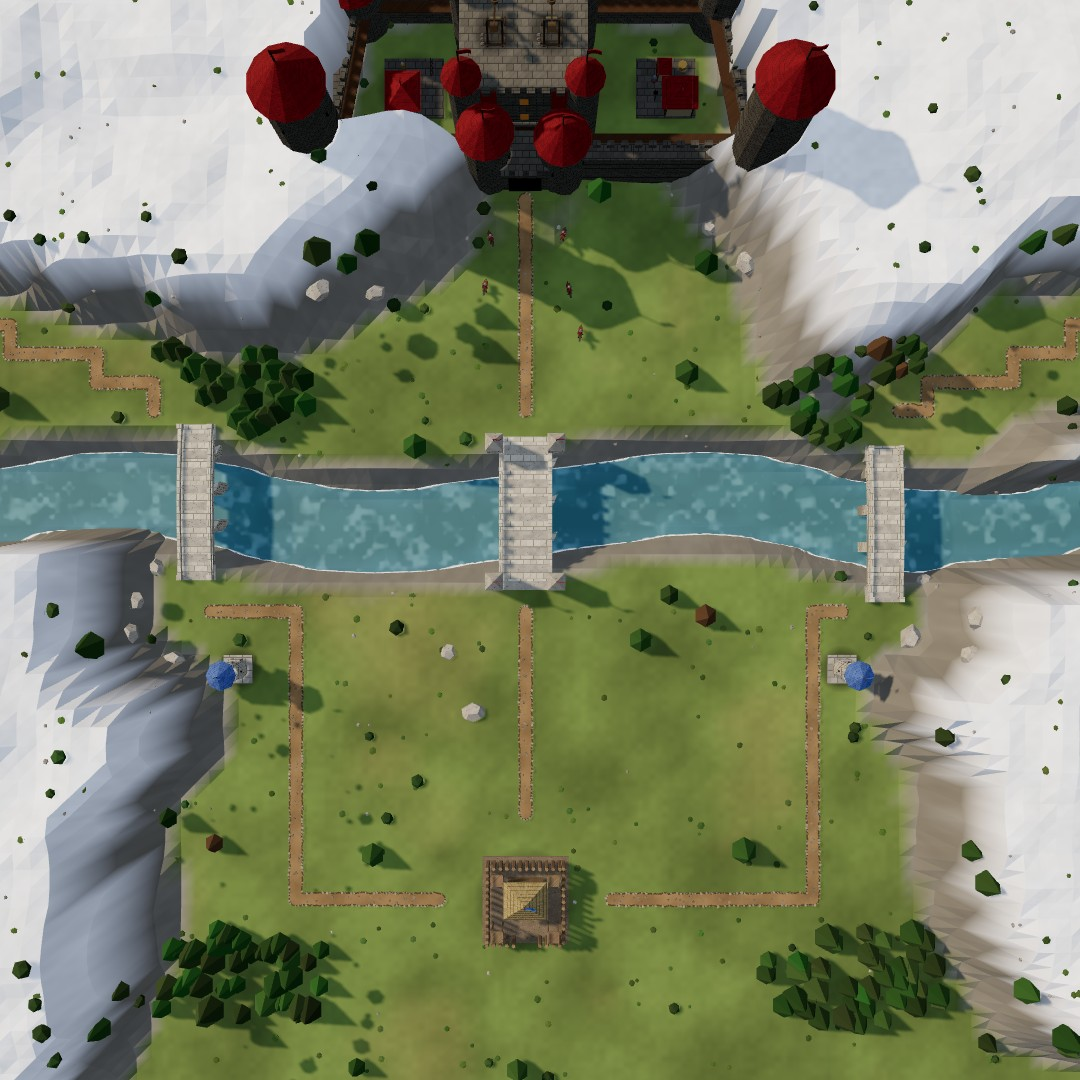
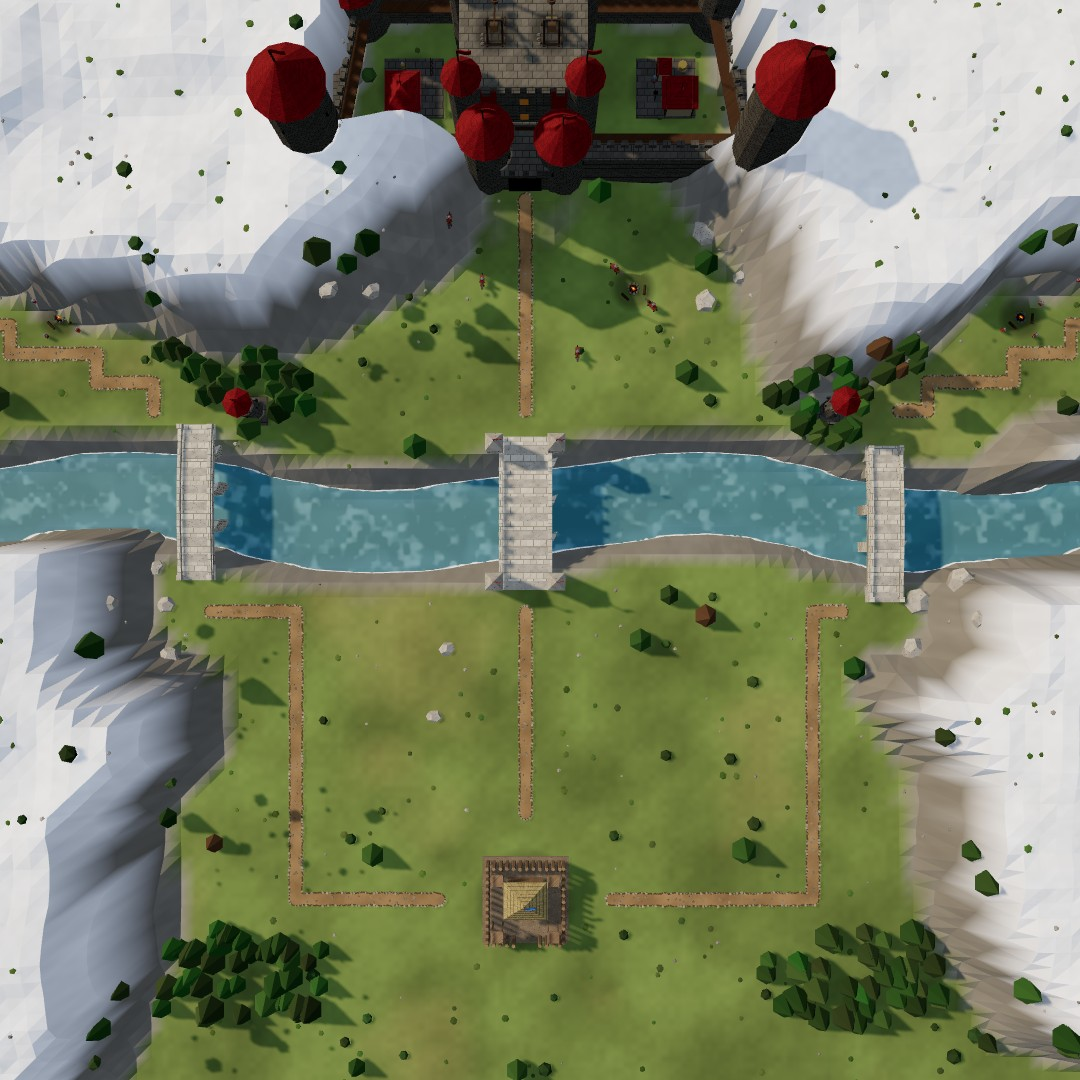
Warlord's Hold: raider camps with campfires and patrols on the far bank and at the gate; the two stone towers are the raiders', across the river
Claude-Session: https://claude.ai/code/session_01AE8sRRsVdpH9ETfQvtppox

diff --git a/index.html b/index.html
@@ -1134,8 +1134,18 @@ function holdHeight(x, z) {
 }
 // the boss stages' fixed scenery nobody walks through or builds on: the keep and the burned village's ruins, the hold
 // the Warlord's horse guard idling outside the gate (Jack: livelier): tier-3 horse swords, scenery
-const HOLD_RIDERS = [[36.6, 19.2, .3], [41.6, 19, -.3], [36.2, 22.4, -.15], [42, 22.6, .2], [42.8, 25.6, -.1]];
-const sceneryAt = (x, z) => MAP === 'hold' && HOLD_RIDERS.some(([a, b]) => Math.hypot(x - a, z - b) < .8) ? true : MAP === 'keep' ? inPoly(KEEP_POLY, x, z) || KEEP_RUINS.some(([a, b]) => Math.hypot(x - a, z - b) < 1.3) : MAP === 'hold' ? inPoly(HOLD_POLY, x, z) : false;
+// the raiders' camps on the far bank (Jack): round a campfire each, some resting by the fire, some on patrol round a loop of points
+// (they walk, stop a moment at each corner, walk on); the horse guard outside the gate the same; and a tier-3 archer tower of the
+// raiders' by each side bridge. Scenery: the fires and towers are kept clear in sceneryAt; the walkers just walk
+const HOLD_CAMPS = [
+  { fire: [6.5, 24.5], rest: [['spear', 3, 5.2, 23.6], ['archer', 2, 7.8, 25.4], ['sword', 3, 5.6, 25.8]],
+    patrol: [['spear', 3, [[3, 22.2], [11, 23.4], [13, 28.5], [8.5, 26.6]]], ['sword', 2, [[18, 30.5], [24, 30.5], [24, 26], [18.5, 26.5]]]] },
+  { fire: [73.5, 24.5], rest: [['spear', 3, 74.8, 23.6], ['archer', 2, 72.2, 25.4], ['sword', 3, 74.4, 25.8]],
+    patrol: [['spear', 3, [[77, 22.2], [69, 23.4], [67, 28.5], [71.5, 26.6]]], ['sword', 2, [[62, 30.5], [56, 30.5], [56, 26], [61.5, 26.5]]]] },
+  { fire: [46.5, 22.5], rest: [['rider', 3, 45.2, 21.2], ['rider', 3, 47.8, 23.8]],
+    patrol: [['rider', 3, [[34, 18.8], [42.6, 18.8], [42.6, 27], [34, 27]]], ['rider', 3, [[42.6, 27], [34, 27], [34, 18.8], [42.6, 18.8]]], ['rider', 3, [[36, 22], [36, 30], [42, 30], [42, 22]]]] }];
+const HOLD_TOWERS = [[20, 31], [60, 31]];
+const sceneryAt = (x, z) => MAP === 'hold' && (HOLD_CAMPS.some(c => Math.hypot(x - c.fire[0], z - c.fire[1]) < .9) || HOLD_TOWERS.some(([a, b]) => Math.hypot(x - a, z - b) < 1.2)) ? true : MAP === 'keep' ? inPoly(KEEP_POLY, x, z) || KEEP_RUINS.some(([a, b]) => Math.hypot(x - a, z - b) < 1.3) : MAP === 'hold' ? inPoly(HOLD_POLY, x, z) : false;
 // the maps with ground nobody may walk or build on (Mountain pass's mountains, Greenvale's hills)
 const mapOpen = (x, z) => MAP === 'pass' ? passOpen(x, z) : MAP === 'vale' ? valeOpen(x, z) : MAP === 'hold' ? holdOpen(x, z) : true;
 function genHeight(x, z) {
@@ -6826,6 +6836,8 @@ function buildWarlordsHold(g) {
   // inside the walls: the town's garrison and royal stables; two trebuchets on the keep's roof, aimed south (Jack)
   placeModel(g, 'barracks', 3, 31.5, 9.5, 1, Math.PI / 2); placeModel(g, 'stables', 3, 48.5, 9.5, 1, -Math.PI / 2);
   for (const sx of [-1, 1]) placeModel(g, 'catapult', 3, cx + sx * 1.7, cz, .9).position.y = y0 + 9.5;
+  for (const [x, z] of HOLD_TOWERS) placeModel(g, 'tower', 3, x, z);
+  for (const c of HOLD_CAMPS) placeModel(g, 'campfire', 1, c.fire[0], c.fire[1]);
 }
 function placeBossScenery() {
   if (bossMesh) { scene.remove(bossMesh); bossMesh = null; }
@@ -6838,18 +6850,36 @@ function placeBossScenery() {
     for (let i = 0; i < 4; i++) { const a = i * Math.PI / 2 + .3, h = .5 + hash(x + i, z) * 1.1, w = box(1.7, h, .22, charM, x + Math.cos(a) * .85, yy + h / 2 - .1, z + Math.sin(a) * .85); w.rotation.y = -a + Math.PI / 2; g.add(w); }
     const bm = box(2, .18, .18, charM, x, yy + .4, z); bm.rotation.set(.3, hash(x, z) * 3, .4); g.add(bm);
   }
-  if (MAP === 'hold') { holdRiders = HOLD_RIDERS.map(([x, z, ry], i) => { const p = makeRaider('rider', 3); p.g.scale.setScalar(UNIT_K); p.g.position.set(x, hAt(x, z), z); p.g.rotation.y = ry; p.g.traverse(o => { if (o.isMesh) o.castShadow = true; }); g.add(p.g); return { p, ry, s: i * 1.9 + .7 }; }); }
+  if (MAP === 'hold') { holdRiders = [];
+    const fig = (kind, tier, x, z) => { const p = makeRaider(kind, tier); p.g.scale.setScalar(UNIT_K); p.g.position.set(x, hAt(x, z), z); p.g.traverse(o => { if (o.isMesh) o.castShadow = true; }); g.add(p.g); return p; };
+    for (const c of HOLD_CAMPS) {
+      for (const [k, t, x, z] of c.rest) { const p = fig(k, t, x, z), ry = Math.atan2(c.fire[0] - x, c.fire[1] - z); p.g.rotation.y = ry; holdRiders.push({ p, ry, s: x * 1.3 + z }); }
+      c.patrol.forEach(([k, t, pts], i) => holdRiders.push({ p: fig(k, t, ...pts[0]), pts, s: i * 3.1 + c.fire[0], walk: k === 'rider' ? 1.3 : .9 }));
+    } }
   else holdRiders = [];
   scene.add(g); bossMesh = g;
 }
 // they shift their weight, turn a little, the horses now and then paw the ground and toss their heads
 let holdRiders = [];
 function animHoldRiders(t) {
-  for (const R of holdRiders) { const { p, s } = R, paw = Math.max(0, Math.sin(t * .5 + s)) ** 8;
-    p.g.rotation.y = R.ry + .14 * Math.sin(t * .23 + s);
-    if (p.horse) { p.horse.rotation.x = -.03 * paw + .012 * Math.sin(t * 1.3 + s); p.horse.position.y = .01 * Math.sin(t * 1.1 + s); }
-    if (p.horseLegs) p.horseLegs.forEach((l, i) => { l.rotation.x = i === 0 ? -.6 * paw * Math.max(0, Math.sin(t * 6 + s)) : 0; });
-    if (p.arms) p.arms[1].rotation.x = -.25 + .08 * Math.sin(t * .7 + s);
+  for (const R of holdRiders) {
+    const { p, s } = R;
+    if (!R.pts) {   // resting by the fire: turn a little, shift, a horse paws now and then
+      const paw = Math.max(0, Math.sin(t * .5 + s)) ** 8; p.g.rotation.y = R.ry + .14 * Math.sin(t * .23 + s);
+      if (p.horseLegs) p.horseLegs.forEach((l, i) => { l.rotation.x = i === 0 ? -.6 * paw * Math.max(0, Math.sin(t * 6 + s)) : 0; });
+      continue;
+    }
+    // on patrol: each leg of the loop walked at R.walk m/s, then a 1.6 s stop at the corner
+    if (!R.seg) { R.seg = R.pts.map((a, i) => { const b = R.pts[(i + 1) % R.pts.length]; return { a, b, d: Math.hypot(b[0] - a[0], b[1] - a[1]) }; }); R.T = R.seg.reduce((n, q) => n + q.d / R.walk + 1.6, 0); }
+    let u = (t + s * 7) % R.T, moving = false, x = R.pts[0][0], z = R.pts[0][1], dx = 0, dz = 1;
+    for (const q of R.seg) { const w = q.d / R.walk; dx = q.b[0] - q.a[0]; dz = q.b[1] - q.a[1];
+      if (u < w) { const f = u / w; x = q.a[0] + dx * f; z = q.a[1] + dz * f; moving = true; break; } u -= w;
+      if (u < 1.6) { x = q.b[0]; z = q.b[1]; break; } u -= 1.6; }
+    p.g.position.set(x, hAt(x, z), z);
+    const want = Math.atan2(dx, dz); if (R.ry === undefined) R.ry = want; let d = want - R.ry; d = Math.atan2(Math.sin(d), Math.cos(d)); R.ry += d * .12; p.g.rotation.y = R.ry;
+    const ph = t * (p.horseLegs ? 7 : 6.5) + s, a = moving ? 1 : 0;
+    if (p.horseLegs) p.horseLegs.forEach((l, i) => { l.rotation.x = a * .45 * Math.sin(ph + (i === 0 || i === 3 ? 0 : Math.PI)); });
+    else { if (p.legs) p.legs.forEach((l, i) => { l.rotation.x = a * .5 * Math.sin(ph + i * Math.PI); }); if (p.arms) p.arms[0].rotation.x = a * -.35 * Math.sin(ph); }
   }
 }
 // paths laid along polylines, cell by cell, diagonal steps joined so they stay connected
@@ -7252,9 +7282,6 @@ function startGame() {
   placeBossScenery();
   if (MAP === 'keep') { yaw = 0; target.z -= 10; layRoads(KEEP_ROADS); rebuildRoads(); }   // from the south, looking up at the keep
   if (MAP === 'hold') { yaw = 0; target.z -= 10; layRoads(HOLD_ROADS); rebuildRoads();
-    // a tier-3 archer tower of the town's by each side bridge, on the near bank (Jack)
-    for (const [x, z] of [[19, 48], [61, 48]]) { const ev = findValid('tower', Math.floor(x / CELL), Math.floor(z / CELL), { free: true }); if (!ev) continue;
-      const B = place('tower', ev.ci, ev.cj, { instant: true, free: true, quiet: true }); if (B) { B.tier = 3; B.max = DEF.tower.hp[2]; B.hp = B.max; swapModel(B); } }
   }                   // from the south: the fords ahead                   // from the south: the north bridge at the top
   if (MAP === 'watch') { yaw = 0; target.x += 7; target.z -= 4; layRoads(WATCH_ROADS); rebuildRoads(); placeRuin(); }   // from the south: Watch hill ahead, the gully on the right   // from the south, the cross and the north road ahead
   BANK_WALL = MAP === 'bridge' ? BANK_WALL : [];

diff --git a/CLAUDE.md b/CLAUDE.md
@@ -81,7 +81,7 @@ The whole game is currently one self-contained file: `index.html` (~165 KB, thre
 - **Map size per stage** (`MAP_N`, `setMapSize(n)` at the top of `startGame`): every stage is 28 × 28 cells (56 m) except the boss stages, 40 × 40 (80 m; Jack asked for them big). `N`, `SIZE` and `V` are `let`; every buffer is allocated once at the largest size (`N_MAX` 40, `V_MAX` 81: heights, cells, regions, bridges, the tree and path-stone instances) and indexed with the current `N`/`V`; on a size change `setMapSize` re-lays the ground's vertex grid and triangles (`terrainGrid`), the Grid overlay (`gridLines`), the water plane, the sun and its shadow box, and `CAM_LIM.hi`. The water's bed texture `hTex` is always `V_MAX` wide (the shader divides by `V_MAX`).
 - **Bosses** (`ENEMY.chief`, `ENEMY.warlord`, `boss`: drawn that much bigger; always sent at tier 3; renders in `design/characters/bosses.png`): the **Raider Chief** on foot (hp 520 × 2.3, dmg 14 × 1.65, a sword and a big red round shield, a horned helm with a gold band, a long red cloak) and the **Warlord** mounted (hp 820 × 2.3, dmg 18 × 1.65, ×2 speed, a gold crown of points and a red plume on the great helm, a red heater shield rimmed in gold, the cloak, a horse in dark barding with red flank cloths and a gilded face plate); gear from `bossGear`. Both ride or march for the castle (`pickTarget`), come last of their night's column (`startNight`), get a bigger health bar, and their arrival shows a banner with their name and "Boss" and a log line. Gallery row "Bosses" (drawn at their own size).
 - **Raider Keep** (`MAP` 'keep', Stage 11, boss, 80 m; from `design/stages/stage11-raider-keep.svg`): the raiders' keep at the top (`KEEP_POLY`, a six-sided yard on a rocky rise, gate at `KEEP_GATE`): the first layout's shape (Jack liked it) in the detail of the town's buildings (`buildRaiderKeep`, from `placeBossScenery`): sharpened palisade logs with rails and a wall-walk inside, the town's lookout tower at every corner, the town's timber gate (×1.5) flanked by two lookouts, a great tower (masonry with buttresses, a jettied timber-framed storey with windows, a shingled pyramid roof, a door, a roof flag), a log hall with a gable roof and a chimney, and the town's weapon racks, campfire and siege stores in the yard; everything darkened (`darkFort`: cloned materials × .26 linear, about half as bright on screen, the town's blue turned red; see-through flames left alone; cached in `darkMats`), so it never reads as the player's, a dry ditch below it open only at the gate (`KEEP_DITCH`), two roads from the gate round the burned village (`KEEP_RUINS`, blackened wall stubs) and dead trees (`bare` trees: trunks only, out of reach) to the town at the bottom (castle `KX/KZ` 41,67); ground red in the north, scorched in the middle, green in the south (`recolor`); green woods in the two south corners, plenty of stone. The keep, its yard and the ruins are scenery nobody walks or builds on (`sceneryAt`, in `canStand`, `cellPass`, `evaluate` "Occupied"). Raiders come round both sides of the fort (Jack: spawns west and east of it, 40% each) and a few out of its gate. Rules (`MAP_RULES.keep`): **7 nights** after a **10-minute first day** (Jack), 20–75 raiders a night with siege from night 3, the **Raider Chief** at the tail of night 7; days 600/120…; spawn gap .8 s; start gold 50 wood 30 stone 0 food 30; every building, tier 3 (win: survive; "break the keep" not built).
-- **Warlord's Hold** (`MAP` 'hold', Stage 12, final boss, 80 m; from `design/stages/stage12-warlords-hold.svg`): snowy mountains round the north and both sides (`HOLD_MTNS`, closed ground like Mountain pass's: `holdOpen` in `mapOpen`; snow from about 10.5 m on this map in `recolor`), the Warlord's hold on a crag at the top (`HOLD_POLY`, gate at `HOLD_GATE`; `buildWarlordsHold`): masonry curtain walls with merlons and a timber wall-walk, round corner towers (arrow slits, merlon crowns, cone roofs, roof flags), a gatehouse of two round towers round a dark arched passage with a portcullis, a tall keep with four cone-roofed corner turrets, two rows of windows, a framed door and hanging banners, and the town's tier-3 garrison and royal stables inside, two trebuchets (`makeCatapult(3)`) on the keep's roof; five tier-3 horse swords idle outside the gate (`HOLD_RIDERS`, scenery in `sceneryAt`, not darkened, `animHoldRiders`: turn a little, paw, shift); a ramp down from the gate so its door meets the ground; gate, keep, grand bridge and road all on x 39, the middle of the road's cell (the road ran a cell right of the door); every wall piece (1.5 m sections), tower, the gatehouse and the keep reach down to the lowest ground under and just outside them (`low`), with level tops (`TOP`), so nothing floats where the crag falls away (Jack saw the east side floating); roofed towers have no merlons (they cut through the cones) and the keep's merlons stop short of its corner turrets; darkened by `darkFort` (blue roofs and flags turn red), a river across the middle (`HOLD_RIVER`, flows west) with a **grand stone bridge** on the gate's road (`grand: true`, `w` 3.2: a wider deck, units walk all of it (`onDeck` reads `b.w`), tall stone towers with red flags at both ends, merlons on the parapets) its flags red and waving east like the hold's (`raiderFlagM`); two plain stone bridges where the side passes cross the river (x 16 and 64; they were land crossings, `HOLD_ICE` is now empty), each with a free tier-3 archer tower of the town's on the near bank; two mountain passes from the side edges (`HOLD_PASSES`, also the roads: down to their bridge, then long straight runs to the castle's sides, no diagonals: diagonal roads lay as zigzags), pines on the lower slopes and in the south corners (out-of-reach pines up the mountains), stone at the mountains' feet; castle `KX/KZ` 39,65. Raiders out of the hold's gate; from night 3 some down the west pass, from night 4 the east too. Rules (`MAP_RULES.hold`): **7 nights** after a **10-minute first day**, the **Warlord** and eight tier-3 horse swords (his mounted guard) on night 7; days 600/120…; spawn gap .75 s; start gold 50 wood 30 stone 0 food 30; every building, tier 3.
+- **Warlord's Hold** (`MAP` 'hold', Stage 12, final boss, 80 m; from `design/stages/stage12-warlords-hold.svg`): snowy mountains round the north and both sides (`HOLD_MTNS`, closed ground like Mountain pass's: `holdOpen` in `mapOpen`; snow from about 10.5 m on this map in `recolor`), the Warlord's hold on a crag at the top (`HOLD_POLY`, gate at `HOLD_GATE`; `buildWarlordsHold`): masonry curtain walls with merlons and a timber wall-walk, round corner towers (arrow slits, merlon crowns, cone roofs, roof flags), a gatehouse of two round towers round a dark arched passage with a portcullis, a tall keep with four cone-roofed corner turrets, two rows of windows, a framed door and hanging banners, and the town's tier-3 garrison and royal stables inside, two trebuchets (`makeCatapult(3)`) on the keep's roof; three raider camps on the far bank (`HOLD_CAMPS`, Jack): a campfire each (the left and right ones in the open ground the side passes come down through, one outside the gate) with raiders resting round it facing the fire, and raiders on patrol round a loop of points (walk at .9 m/s, horses 1.3, stop 1.6 s at each corner, legs striding; the gate's camp is the Warlord's horse guard); figures not darkened, animated by `animHoldRiders` from `frame`; fires and the raiders' two tier-3 archer towers (`HOLD_TOWERS`, by the side bridges' far ends, darkened with the hold) are kept clear in `sceneryAt`; a ramp down from the gate so its door meets the ground; gate, keep, grand bridge and road all on x 39, the middle of the road's cell (the road ran a cell right of the door); every wall piece (1.5 m sections), tower, the gatehouse and the keep reach down to the lowest ground under and just outside them (`low`), with level tops (`TOP`), so nothing floats where the crag falls away (Jack saw the east side floating); roofed towers have no merlons (they cut through the cones) and the keep's merlons stop short of its corner turrets; darkened by `darkFort` (blue roofs and flags turn red), a river across the middle (`HOLD_RIVER`, flows west) with a **grand stone bridge** on the gate's road (`grand: true`, `w` 3.2: a wider deck, units walk all of it (`onDeck` reads `b.w`), tall stone towers with red flags at both ends, merlons on the parapets) its flags red and waving east like the hold's (`raiderFlagM`); two plain stone bridges where the side passes cross the river (x 16 and 64; they were land crossings, `HOLD_ICE` is now empty), each guarded by a raider tower on the far bank; two mountain passes from the side edges (`HOLD_PASSES`, also the roads: down to their bridge, then long straight runs to the castle's sides, no diagonals: diagonal roads lay as zigzags), pines on the lower slopes and in the south corners (out-of-reach pines up the mountains), stone at the mountains' feet; castle `KX/KZ` 39,65. Raiders out of the hold's gate; from night 3 some down the west pass, from night 4 the east too. Rules (`MAP_RULES.hold`): **7 nights** after a **10-minute first day**, the **Warlord** and eight tier-3 horse swords (his mounted guard) on night 7; days 600/120…; spawn gap .75 s; start gold 50 wood 30 stone 0 food 30; every building, tier 3.
 - **Stage town picker** (Jack's design): a stage with more decor unlocked than `DECOR_PICK`, or both buildings of a pair unlocked (`stageBoth`, picks in `localStorage['mtd-stage-pair']`, `STAGE_PAIR`, `stagePair`) (`stagePicks(map)`: Watchhill on) opens the Choose-your-town screen from its preview's Play (`showLoadPick(map)`, `stagePick`): its buildings are set (the unlocked one of each pair picked, the other locked), the decor it has unlocked are picked four of, and everything not unlocked yet shows only a padlock, no name, icon or cost (Jack's call; `LOCK_ICO`, `.ldOpt.locked`, a tap knocks `nope`); Back returns to the stage preview, Start plays. Picks per stage in `localStorage['mtd-stage-decor']` (`STAGE_DECOR`, `stageDecor(map)`: by default the newest four); `applyLoadout` trims the stage's decor to them (in `cats` order), so `?map=watch` uses them too.
 - **Tiers by stage** (`maxTier` in `CAMP_MAPS`, `tierCap()`): Stages 1–3 stay at tier 1 (no Upgrade button, `upgrade` refuses; Stage 1's guide drops its upgrade step), Stage 4 opens tier 2 (Jack moved it from Stage 3; `newTier: 2` adds a "Tier 2" card after its building cards: "Upgrades" only (the house / gold / archer before → after examples were dropped: Jack)); free play has all three.
 - Raiders pick targets by walking distance, never a straight line across water (`pickTarget` → `reachTarget`: `landField` is a breadth-first cell count over land and bridges, buildings counted as open since they break through; unreachable buildings are skipped) and route on the cell grid with `walkTo` (mode 2) toward a fixed point on the side they reach first (`e.tp`, reset on each 3 s retarget); when buildings or walls close every route, `walkTo` falls back to a mode-3 path (`cellPass` mode 3 ignores occupancy) so they walk to whatever blocks the way and break it (they used to walk straight at the target and stand at a riverbank on River isle); straight `steer` only within 3 m and over open ground (`clearLine`); `edgePoint` falls back to mode-3 routes for a walled-in town; a wall in the way (stuck or 3.5 s without progress) is attacked as before. A raider spawned a metre or so from its point never lands on ground it can't stand on (`spawnEnemy` falls back to the point itself). Spawn points (`edgePoint`) must be walkable (`cellPass` mode 2) and have a route to the castle's door (a route to the castle's centre never exists: it is inside the building), else raiders spawned on steep edge hills stood stuck.
